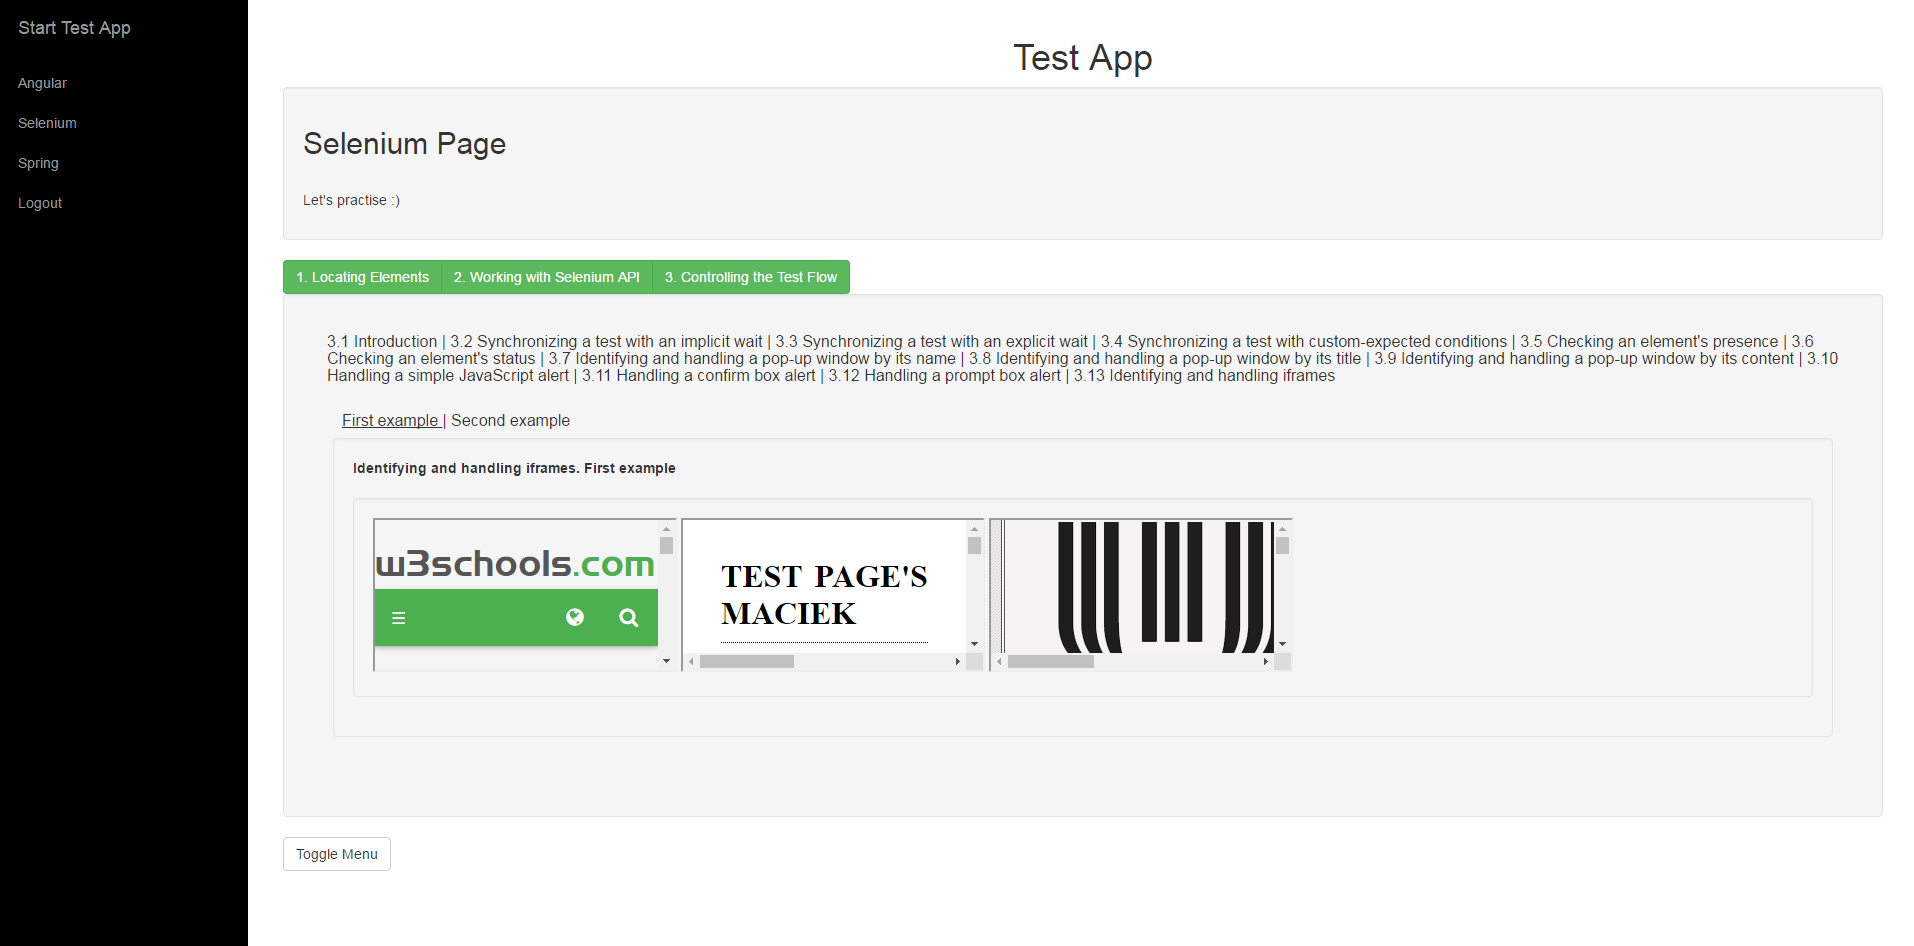
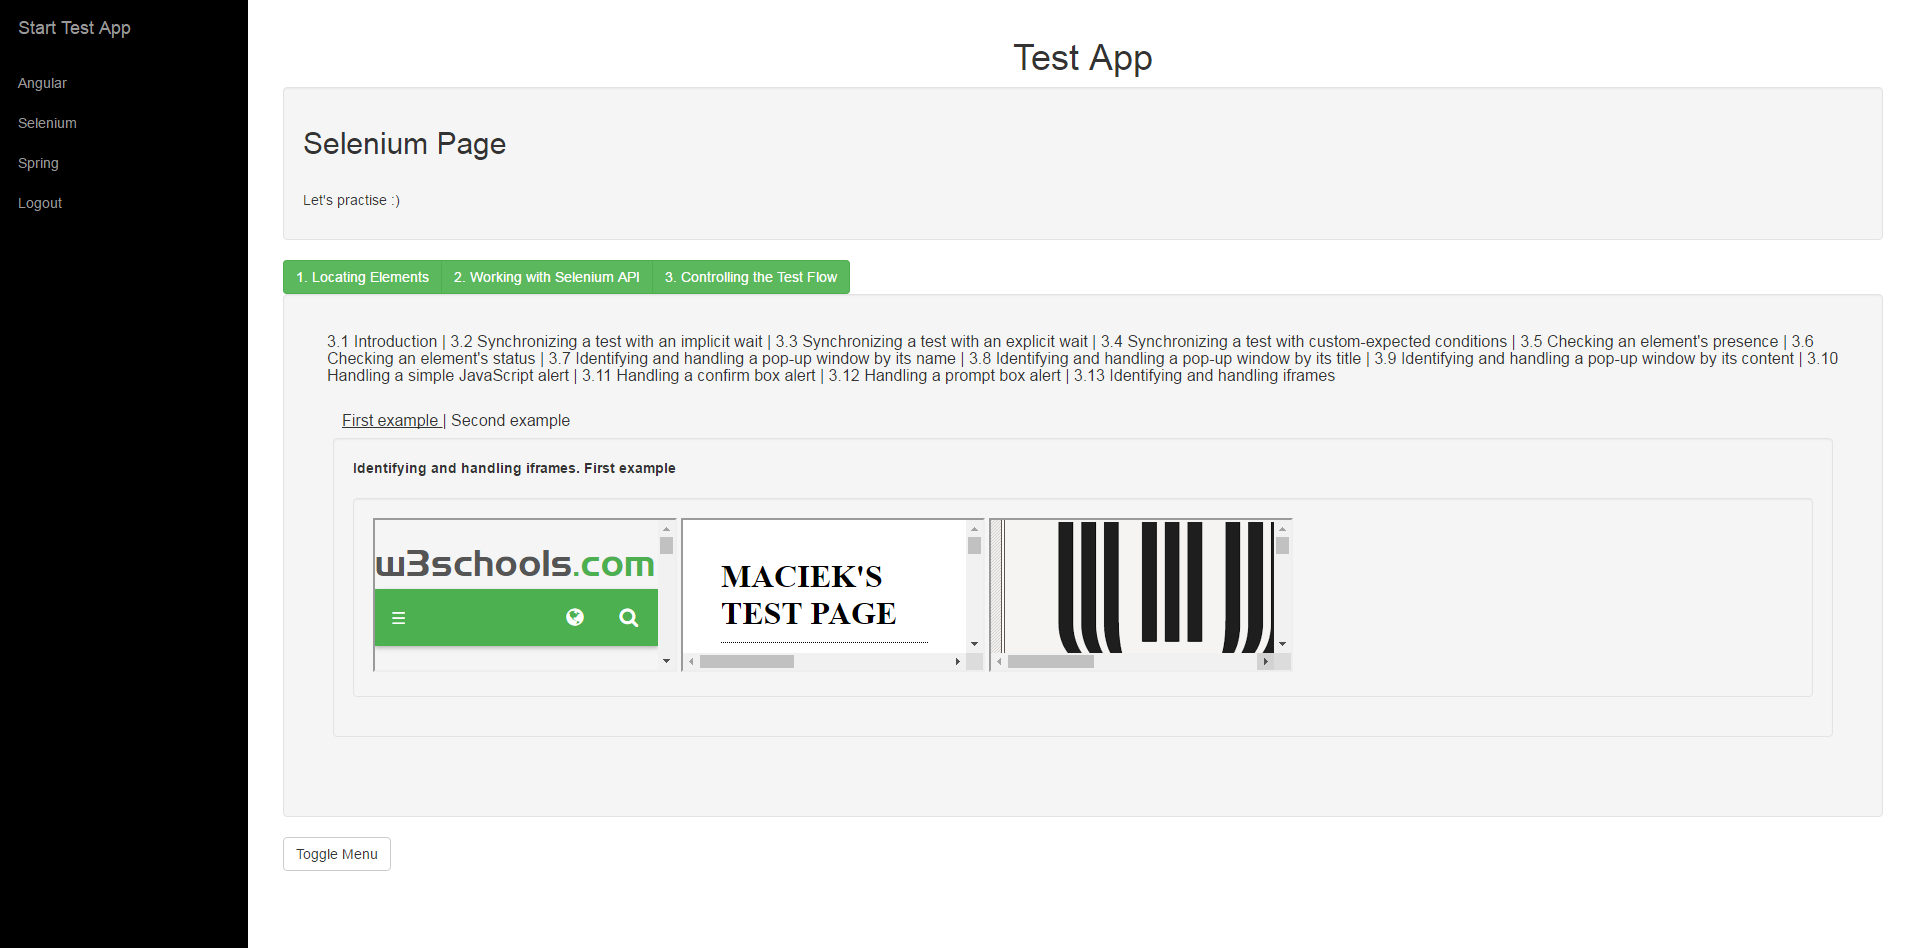
Added new selenium page (ver. 2) afer small fix related with title one of my website + small fix within one test method

diff --git a/src/test/java/pl/wimiip/interfaceTests/tests/flow/ITControllingTheTestFlowTest.java b/src/test/java/pl/wimiip/interfaceTests/tests/flow/ITControllingTheTestFlowTest.java
@@ -468,7 +468,7 @@ public class ITControllingTheTestFlowTest extends ITConfigurationForChromeBrowse
             // switchTo().frame() also accepts frame elements apart from id, name or index
             driver.switchTo().frame(iframe);
 
-            if(driver.getPageSource().contains("TEST PAGE'S MACIEK")) {
+            if(driver.getPageSource().contains("MACIEK'S TEST PAGE")) {
                 assertTrue(true, "Middle Frame Found");
                 break;
             } else {
